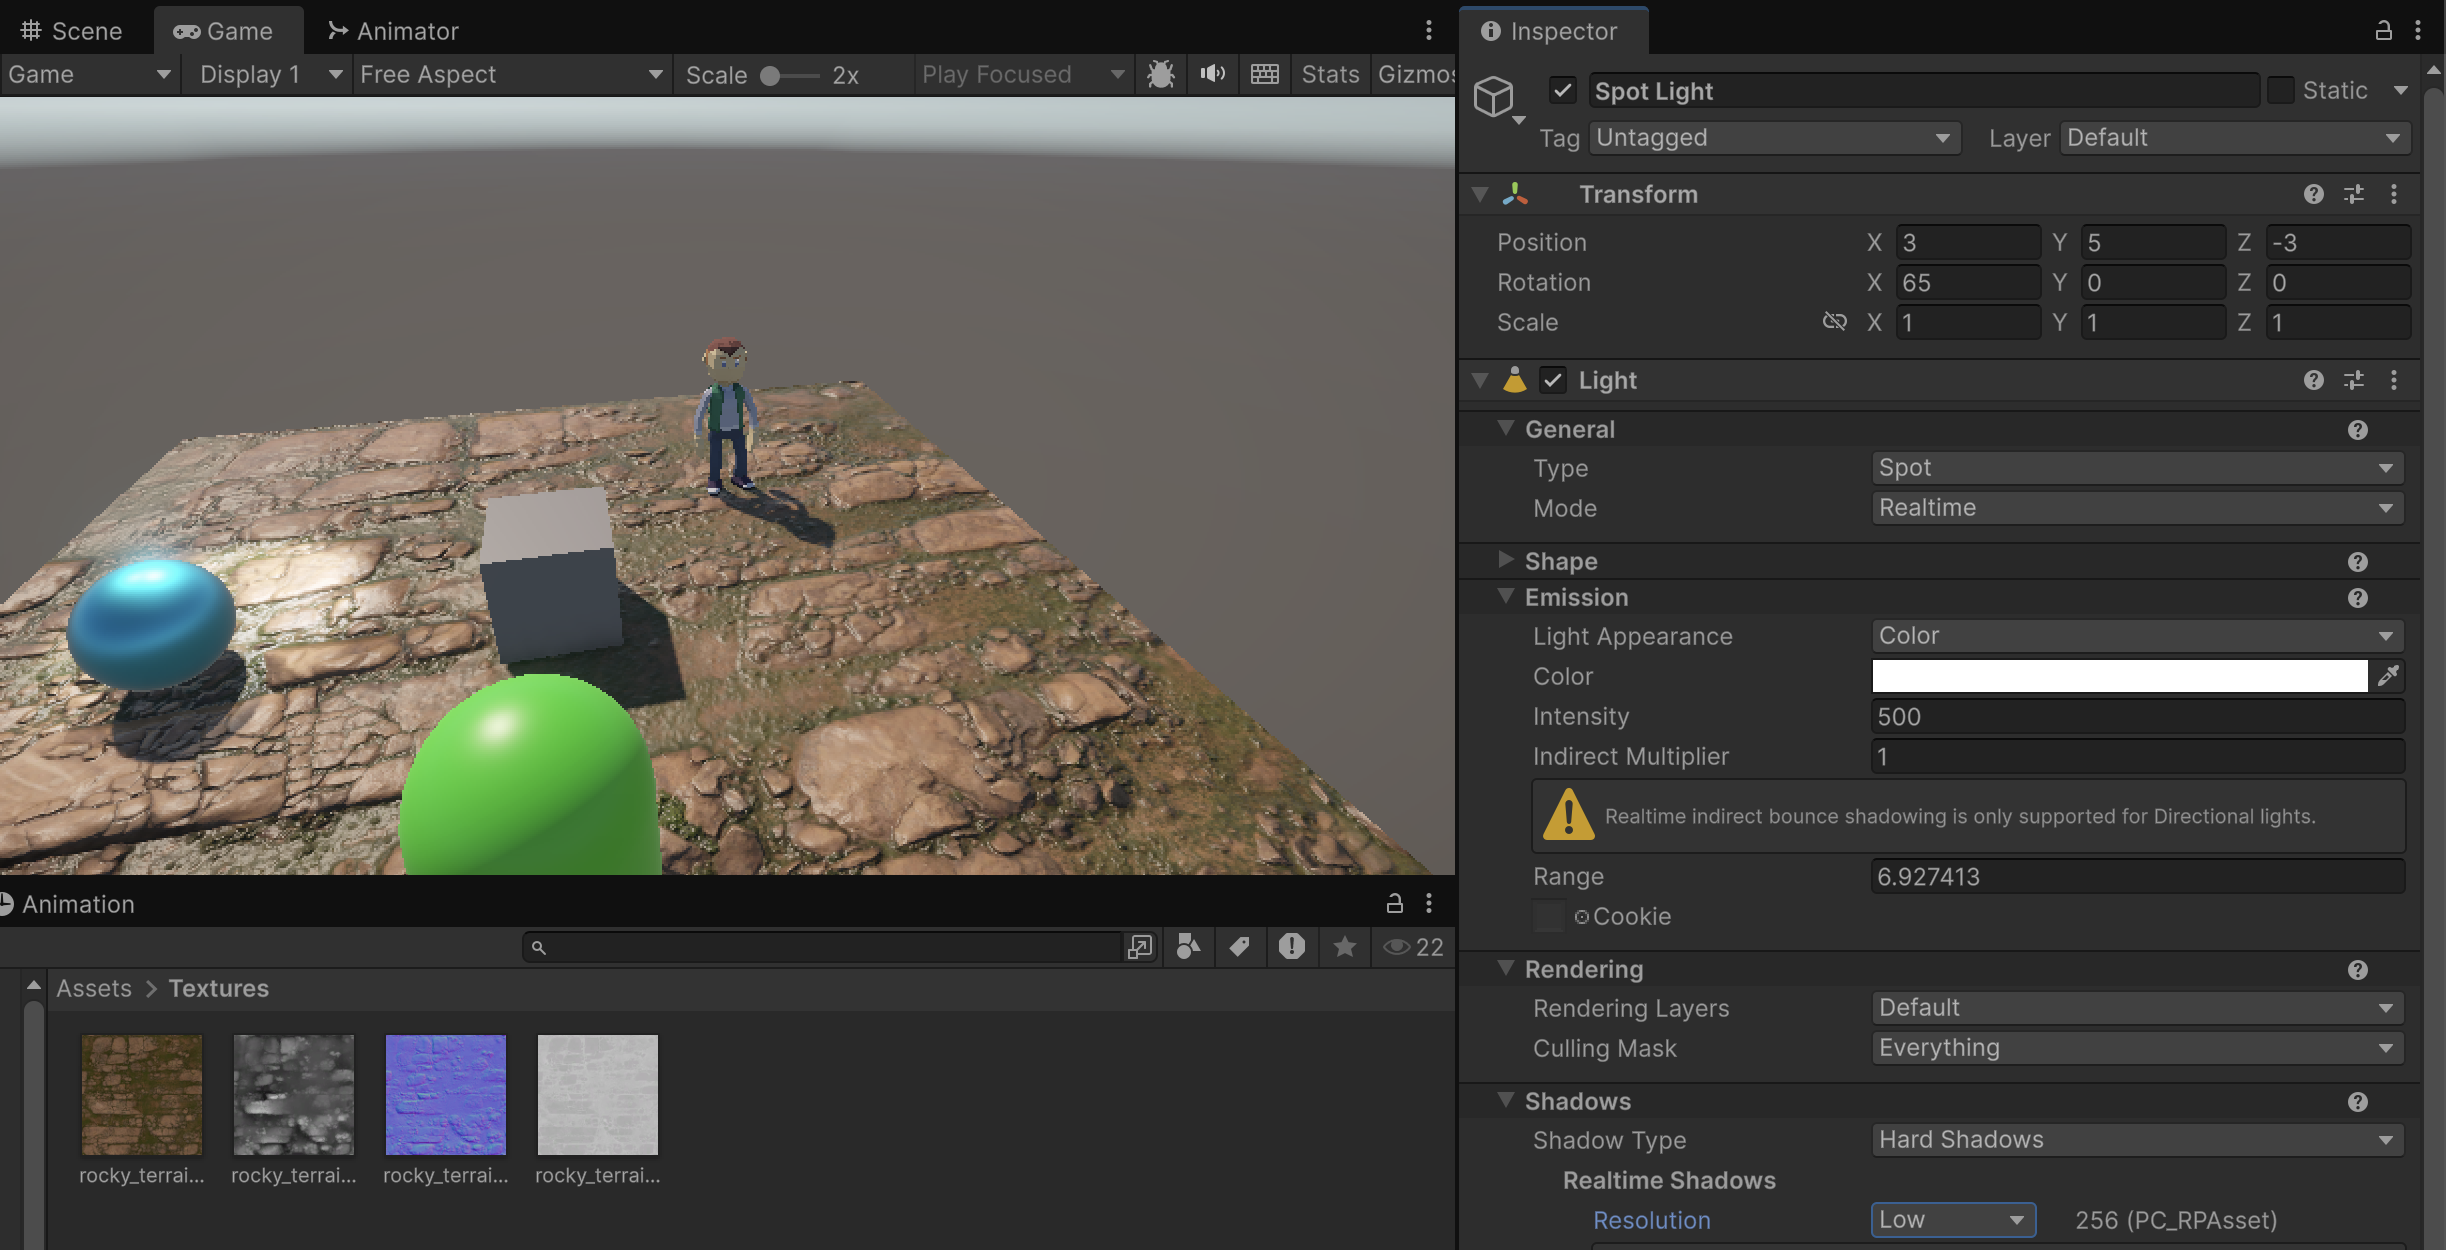
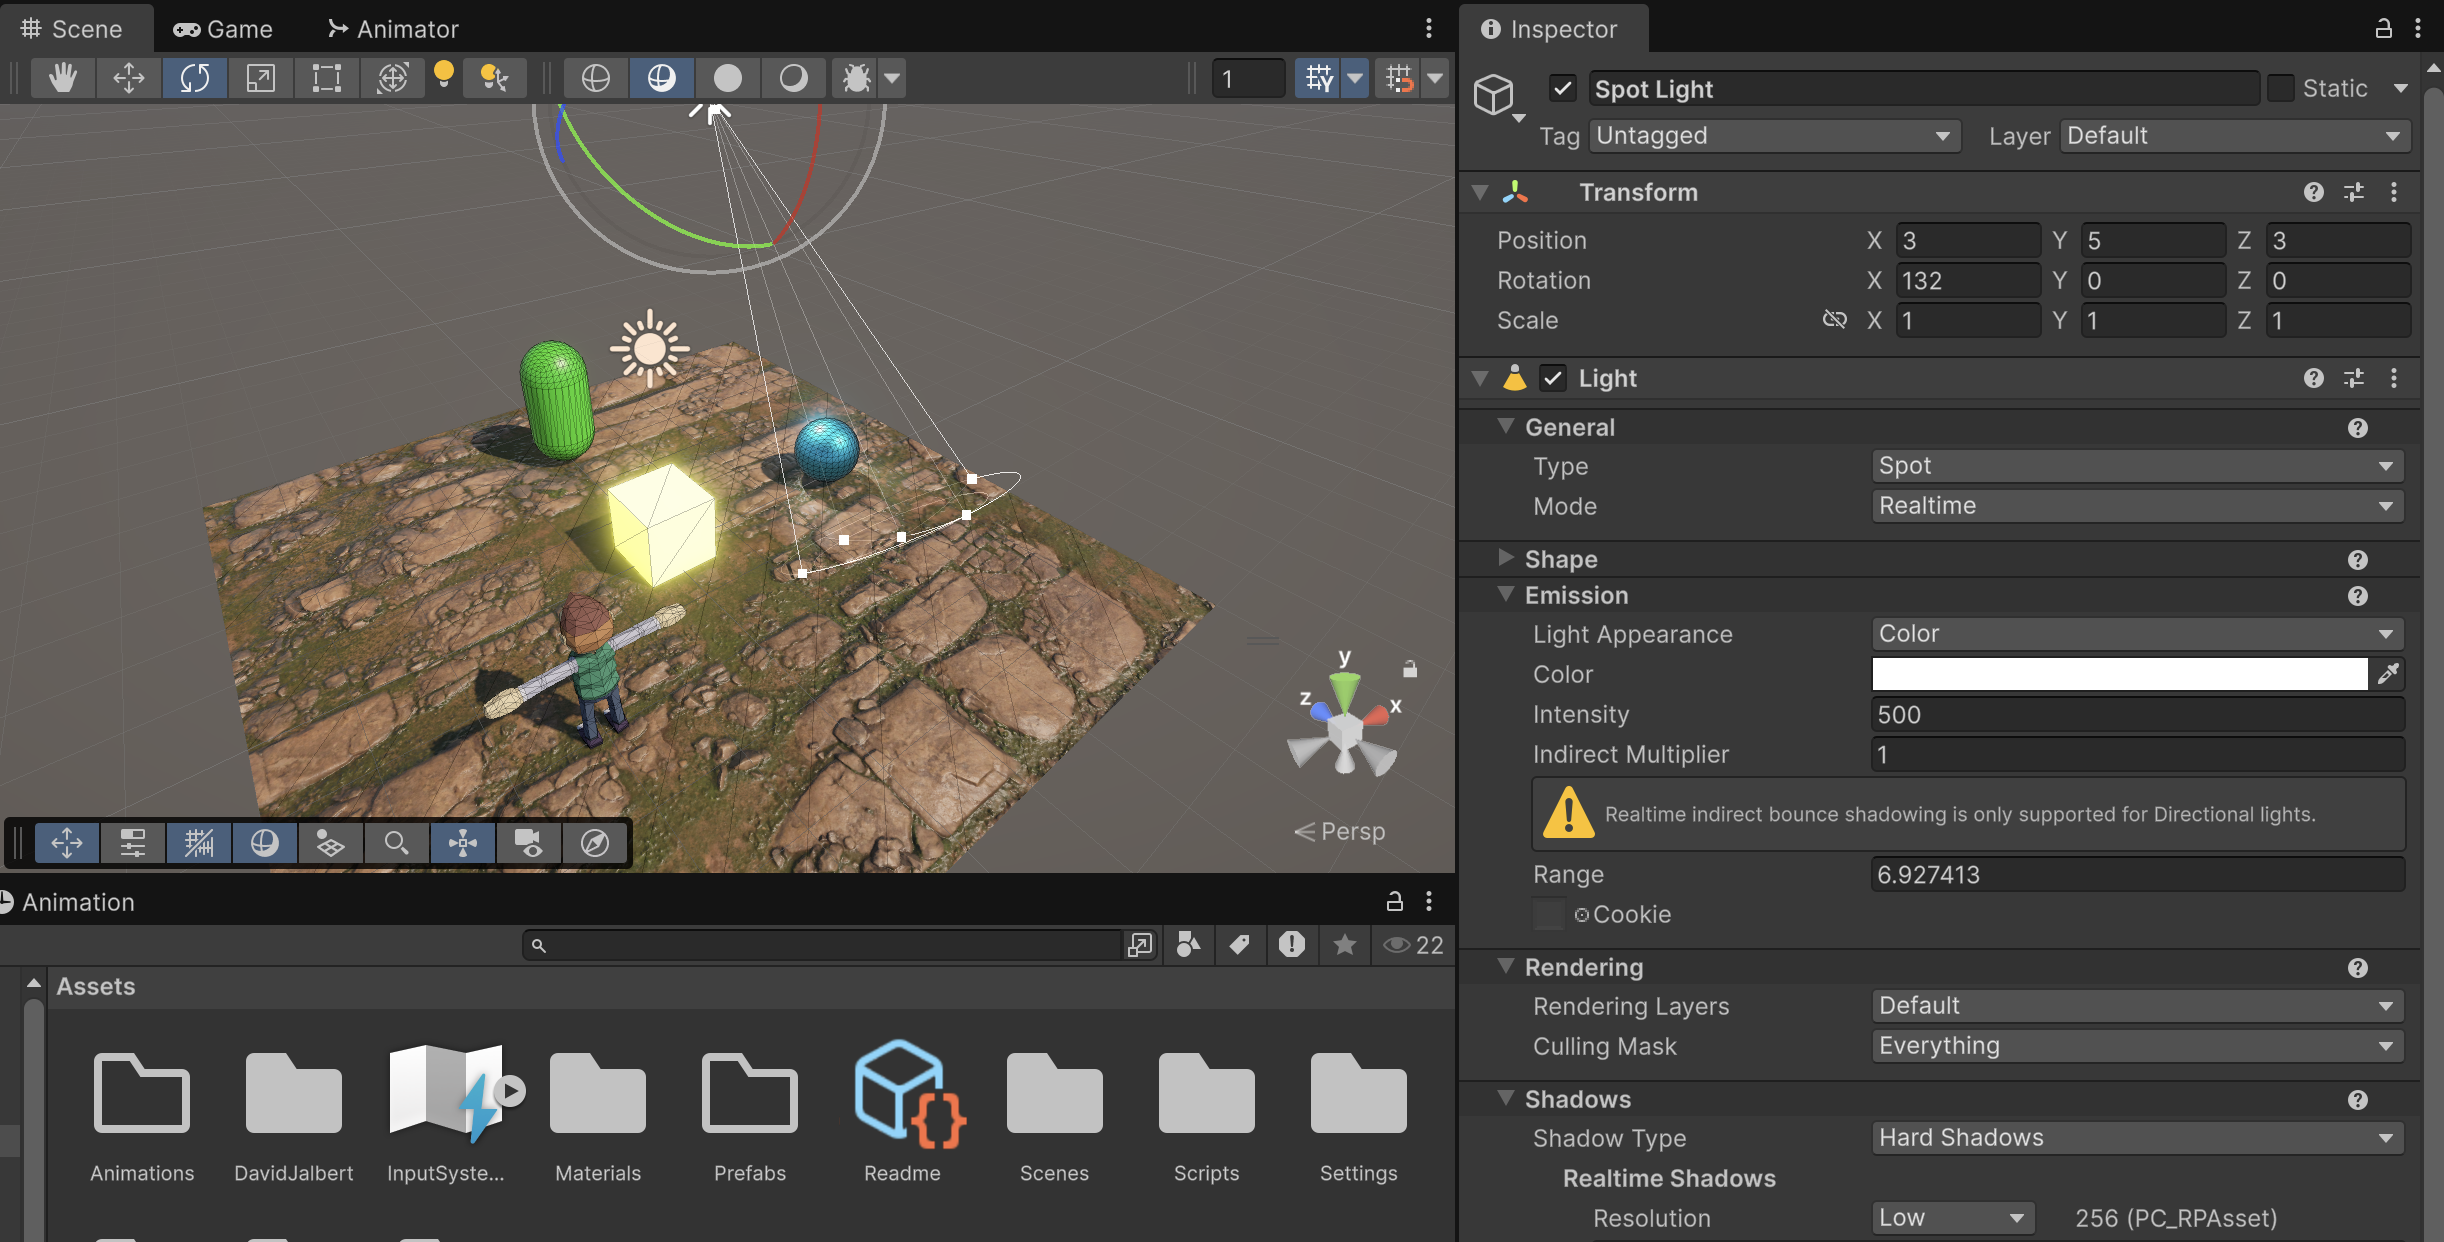
.

diff --git a/04-Intro3D/03-Llums.md b/04-Intro3D/03-Llums.md
@@ -46,14 +46,14 @@ Simula una **superfície lluminosa rectangular** (o en HDRP també disc).
 </center>
 <br/>
 
-# Proves
+# Spot Light amb sombres
 
 Afegeix una *Light > Spot light* a l'escena, amb els paràmetres:
 
 - Position X: 3
 - Position Y: 5
-- Position Z: -3
-- Rotation X: 65
+- Position Z: 3
+- Rotation X: 132
 - Rotation Y: 0
 - Rotation Z: 0
 - Light > Emission > Intensity: 500
@@ -62,7 +62,14 @@ Afegeix una *Light > Spot light* a l'escena, amb els paràmetres:
 
 **Nota:** Fixa't que no ha mostrat la sombra fins que l'hem activat. *"Hard Shadows amb Resolution low"* requereix menys recursos que *"Soft Shadows amb Resolution High"*
 
+**Nota:** Fixa't que ara l'esfera té dues sobres, la de la llum **"Directional Light"** de l'escena, i la de **"Spot Light"** que apunta l'esfera
+
 <center>
-<img src="./assets/llums-spotparams.png" style="width: 90%; max-width: 600px">
+<img src="./assets/llums-spotparams.png" style="width: 90%; max-width: 400px">
+</center>
+<br/>
+
+<center>
+<img src="./assets/llums-doubleshadow.png" style="width: 90%; max-width: 200px">
 </center>
 <br/>

diff --git a/04-Intro3D/02-Materials.md b/04-Intro3D/02-Materials.md
@@ -151,3 +151,33 @@ Per fer que es reflexi més la llum, canvia el valor de:
 <img src="./assets/materials-maps.png" style="width: 90%; max-width: 700px">
 </center>
 
+## Materials emissius
+
+No són pròpiament llums, però es pot fer que un material sembli que emet radiació llumínica.
+
+A la carpeta **"Assets > Materials"** crea un nou material amb:
+
+*Create > Material*
+
+Anomena al material **Emissive light"**. Amb propietats:
+
+- Emission: (activat)
+- Emission map:
+    - Red: 190
+    - Green: 170
+    - Blue: 0
+    - Intensity: 4
+
+<center>
+<img src="./assets/materials-emission.png" style="width: 90%; max-width: 400px">
+</center>
+<br/>
+
+Assigna aquest nou material a l'objecte **"Cube"**
+
+<center>
+<img src="./assets/materials-lightedcube.png" style="width: 90%; max-width: 500px">
+</center>
+<br/>
+
+**Important!** Un material *"Emissive"* no emet sombres!
